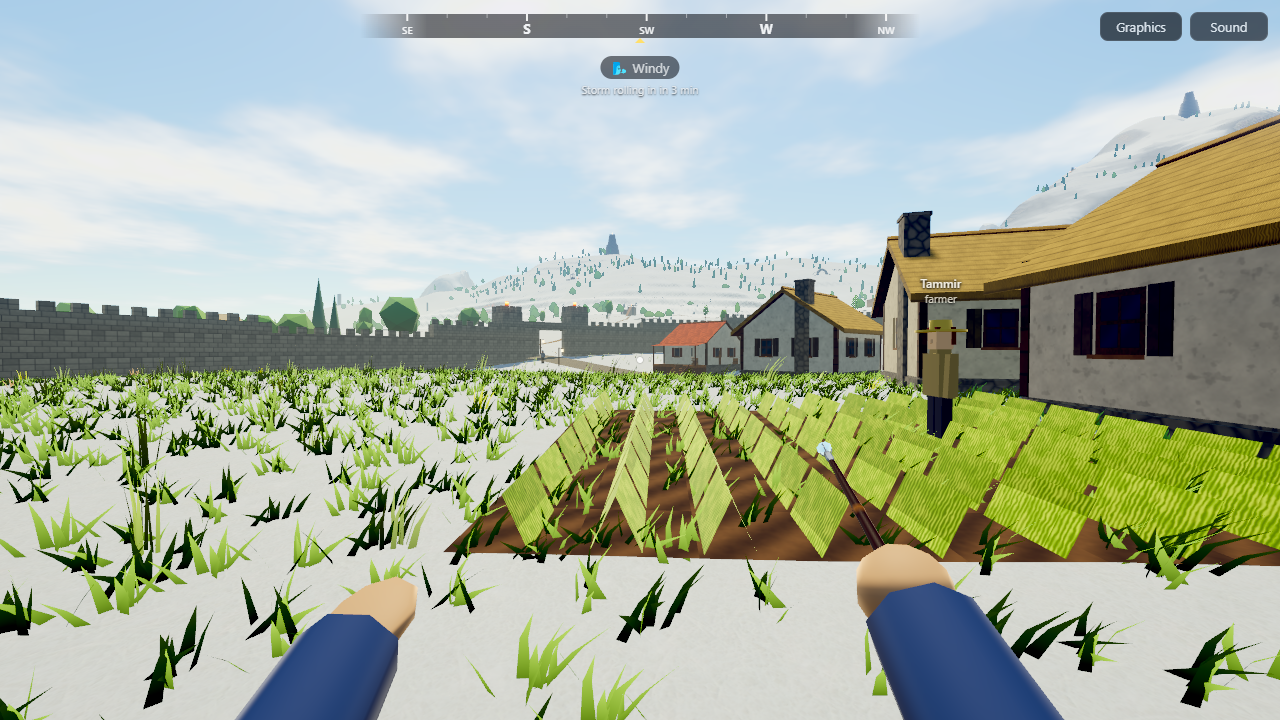
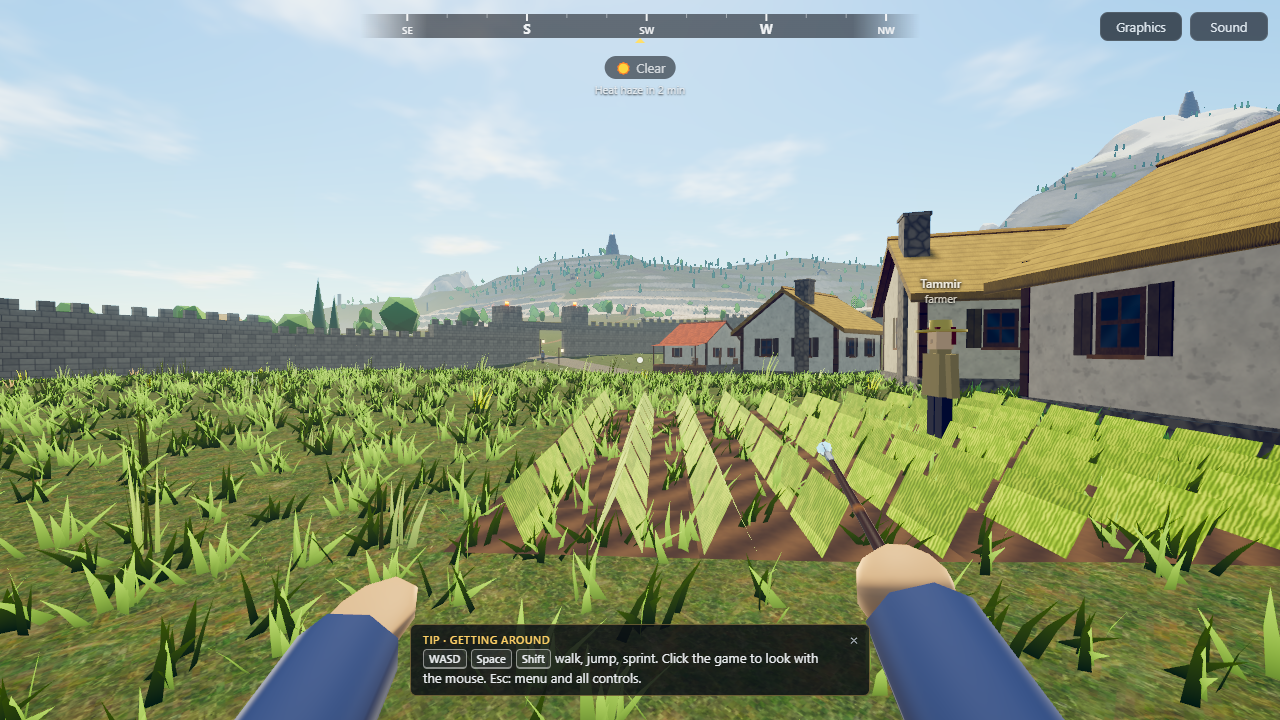
Weather evidence: the HUD pill with a forecast line (solo weather clock shifted with setWorldOffset)

diff --git a/client/src/devHandle.ts b/client/src/devHandle.ts
@@ -79,6 +79,10 @@ export function installDevHandle(): void {
     },
     weather: () => ({ state: STATE_KEYS[liveWeather.state], mix: { ...liveWeather.mix }, wet: liveWeather.wet, snowCover: liveWeather.snowCover, rainbow: liveWeather.rainbow, flash: liveWeather.flash, bolts: liveWeather.bolts.length, stats: { ...liveWeather.stats }, dynamic: weatherClient.dynamic, climate: weatherClient.climate ? [...weatherClient.climate.cells] : null, hud: { ...useWeatherHud.getState() } }),
     weatherStrike: (x: number, z: number, y?: number) => zoneBolt((Math.random() * 1e9) >>> 0, x, y ?? localPlayer.pos.y, z, false, localPlayer.pos),
+    /** Solo: shift the world clock the weather reads (seconds), to find a front about to change. */
+    setWorldOffset: (s: number) => {
+      if (!worldClockState.announced) worldClockState.offsetS = s;
+    },
     setRainbow: (v: number | null) => {
       weatherClient.devRainbow = v;
     },
